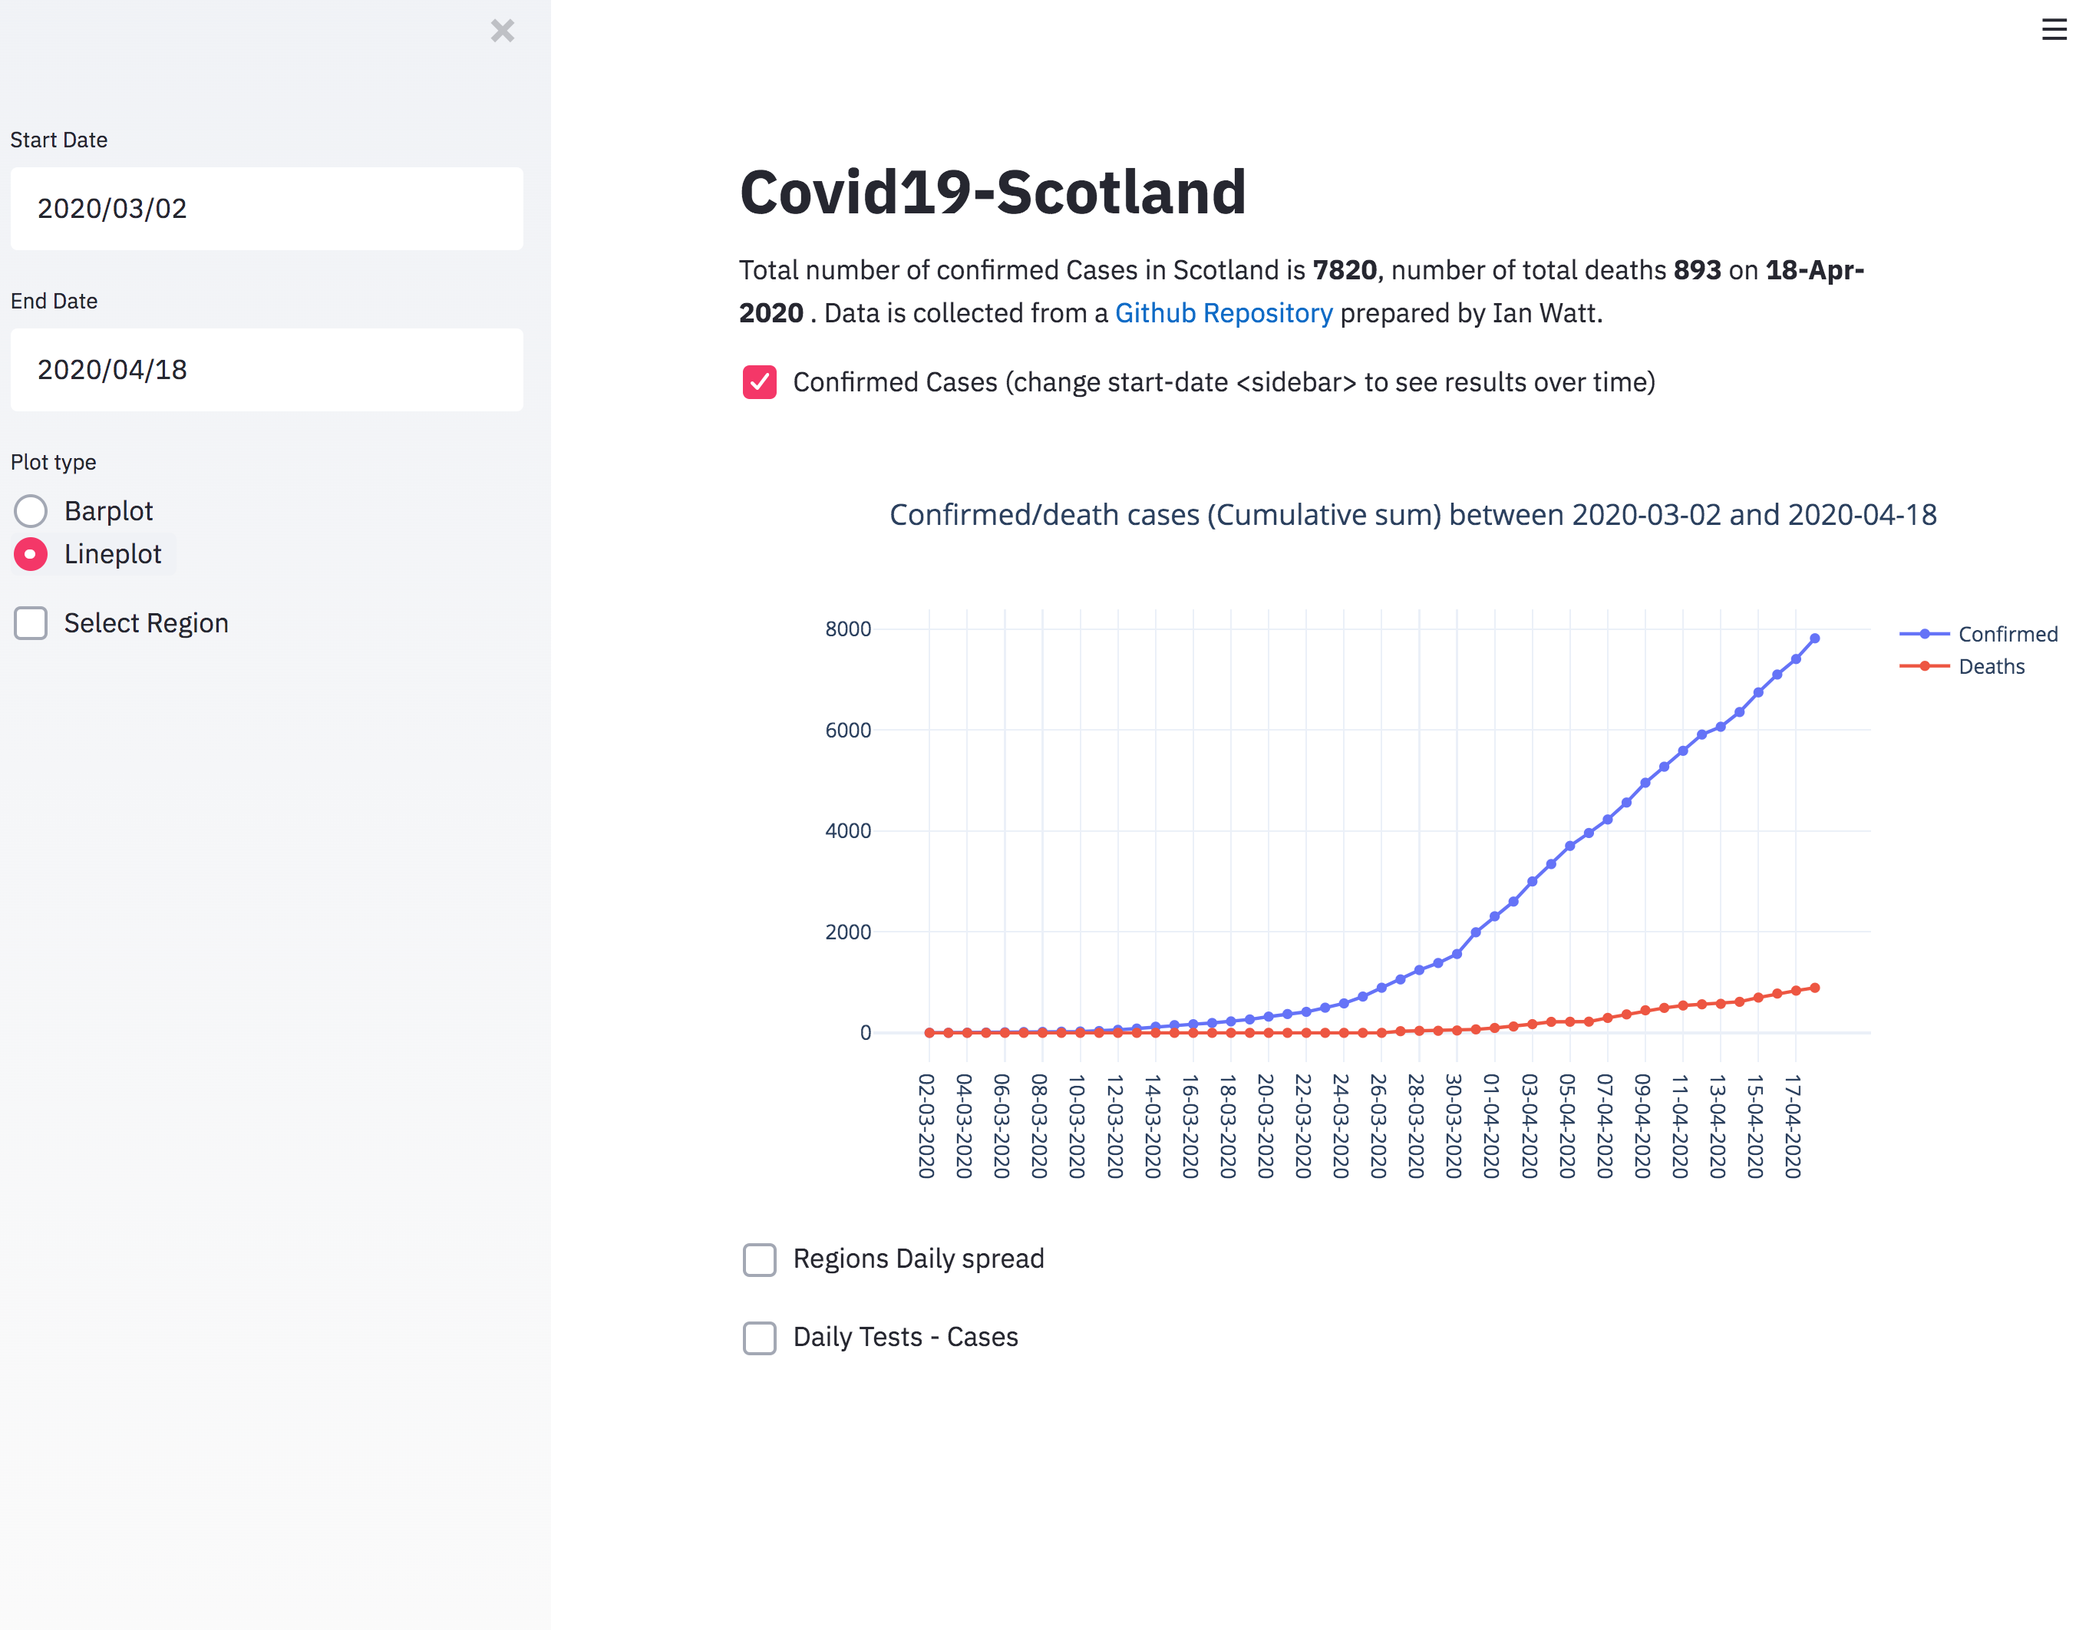
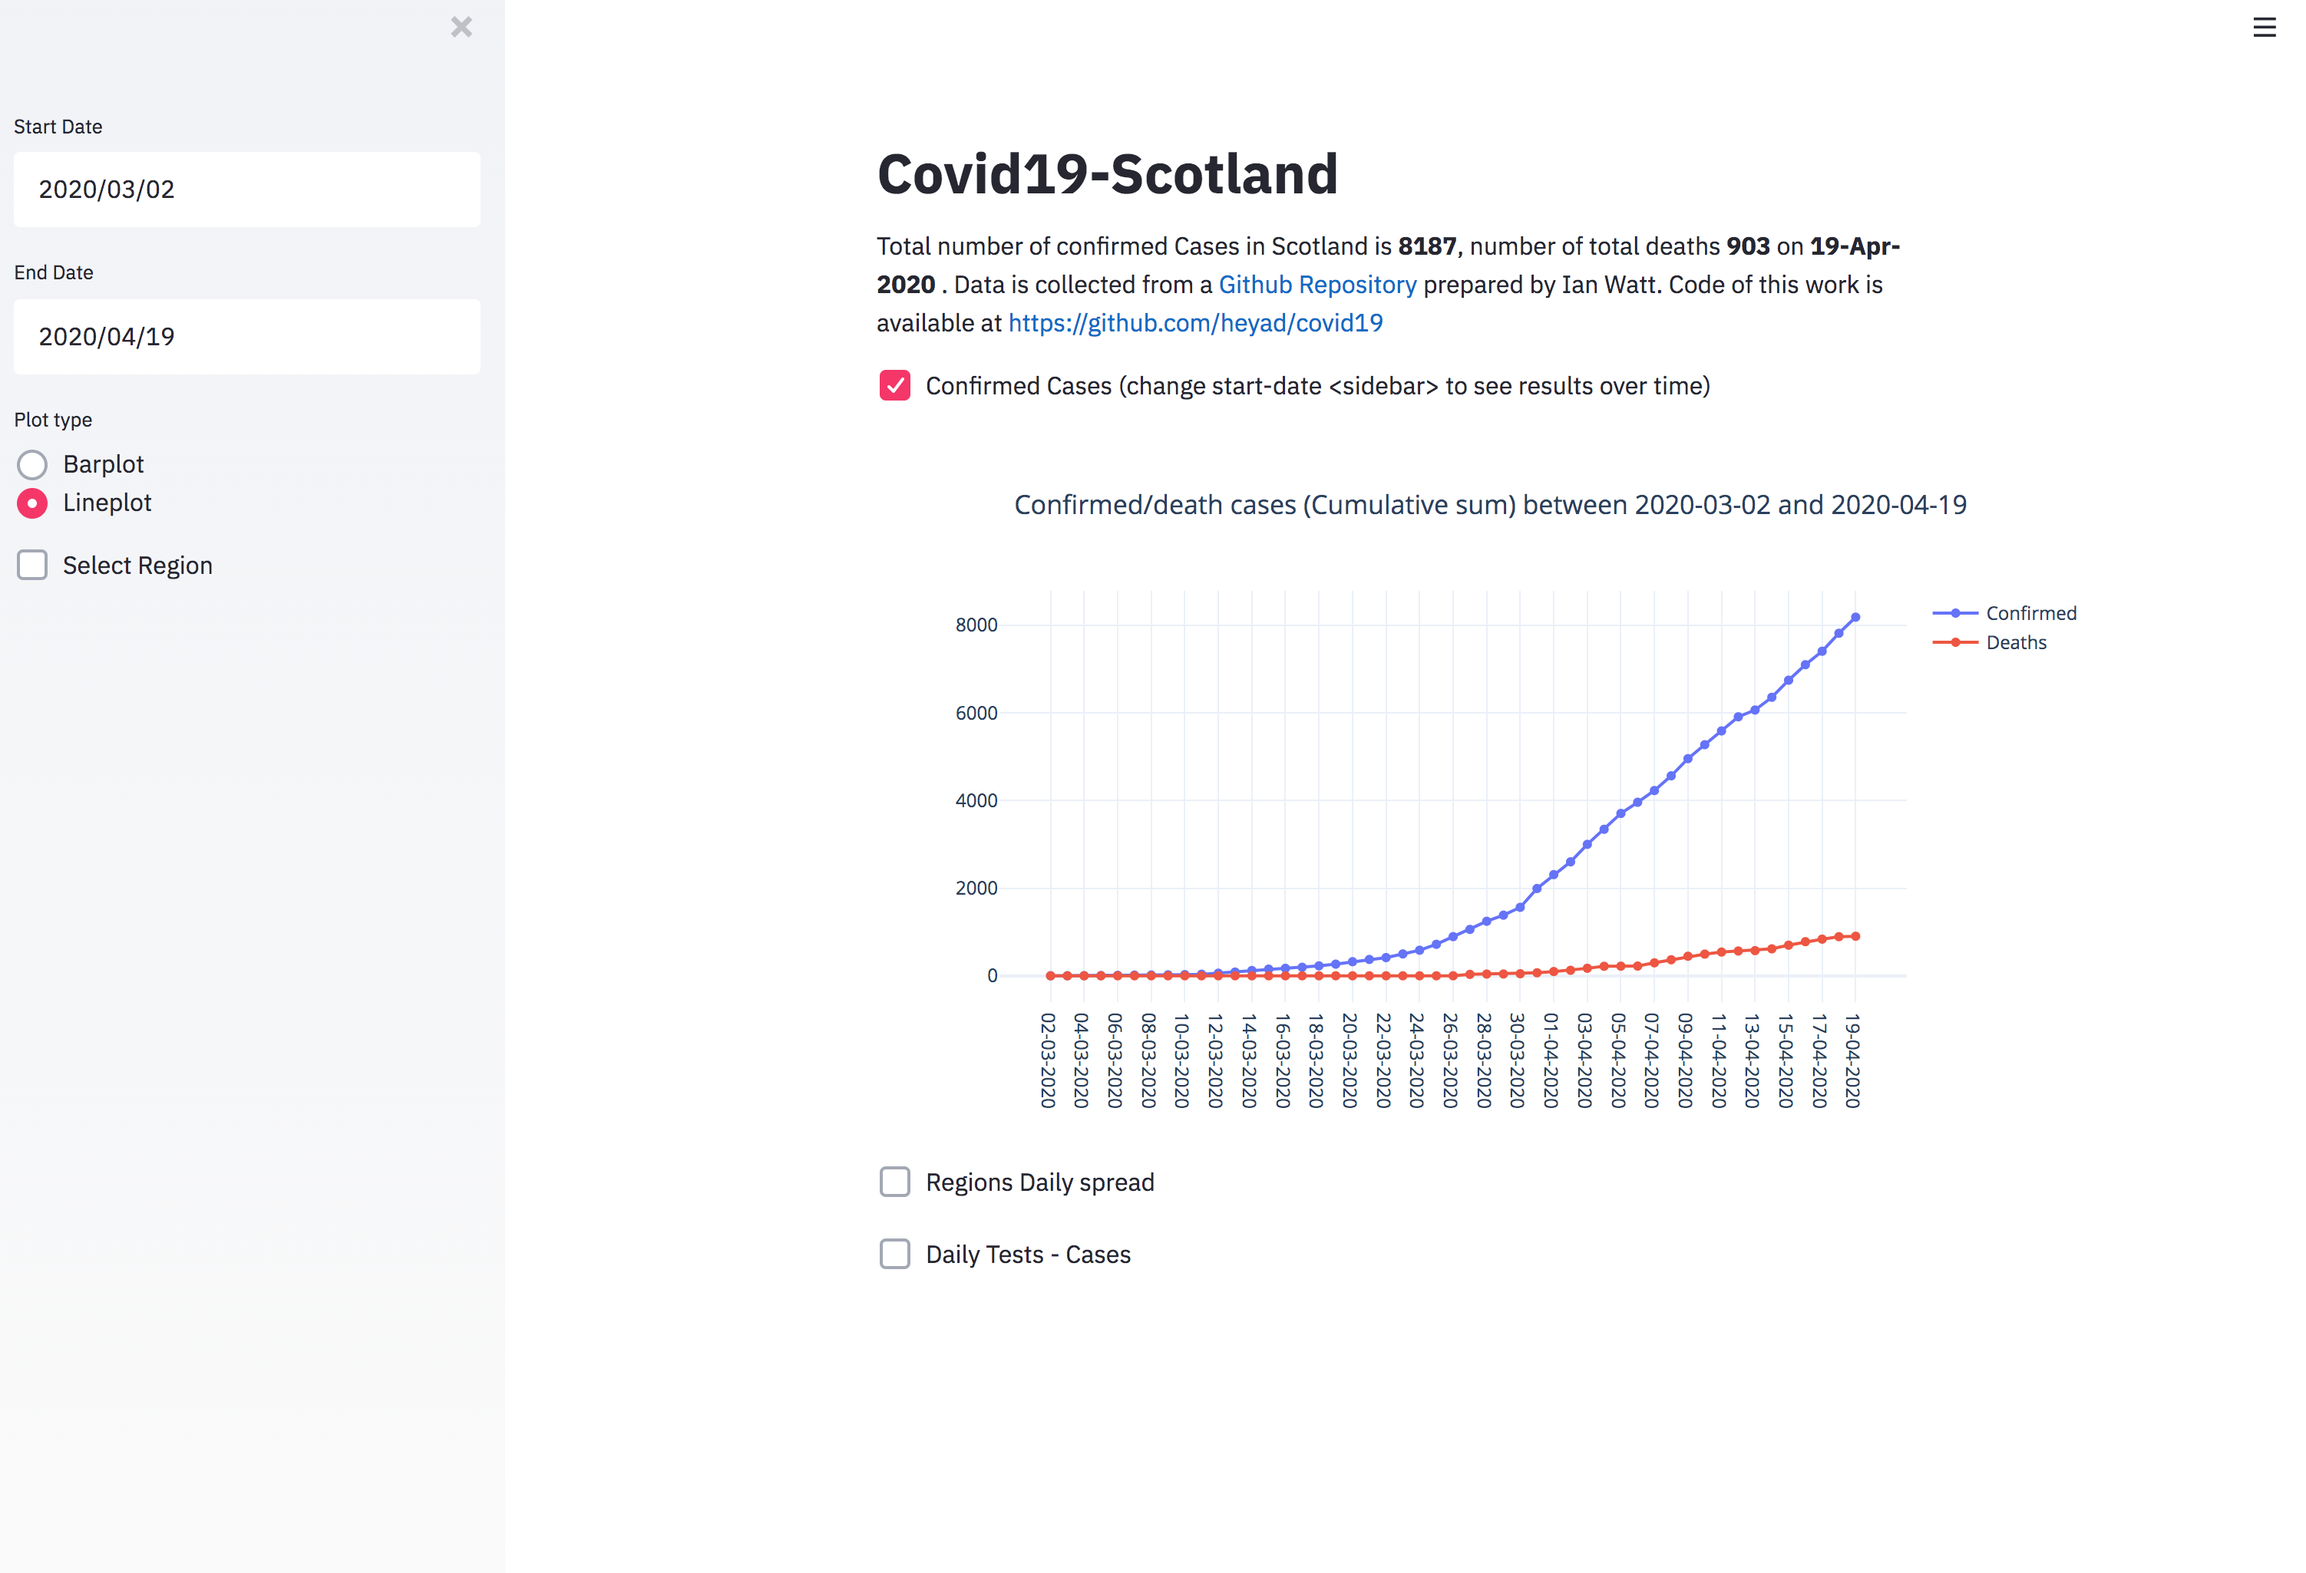
numbers updates

diff --git a/covid19_Scotland/Scotland_Covi19.py b/covid19_Scotland/Scotland_Covi19.py
@@ -301,7 +301,7 @@ def plot_confirmed_tests(date =date.today(), end_date=end_date_df,bar=True):
         ))
 
     #fig.update_layout(barmode='group')
-    fig.update_layout(template='plotly_white',width=800,height=450)
+    fig.update_layout(template='plotly_white',width=900,height=500)
     fig.update_layout(title_text="Number of Tests VS Confirmed Cases between "+str(date)+
         ' and ' +str(end_date),
      title_x=0.5)
@@ -382,7 +382,8 @@ st.markdown('Total number of confirmed Cases in Scotland is<strong> ' +
     str(np.sum(cases_grouped['Confirmed'])) +'</strong>, number of total deaths <b>'+str(int(n_deaths))
     +'</b> on <strong>' + str(byDate)+
     '</strong> '+
-    '. Data is collected from a [Github Repository](https://github.com/watty62/Scot_covid19]) prepared by Ian Watt.',True)
+    '. Data is collected from a [Github Repository](https://github.com/watty62/Scot_covid19]) prepared by Ian Watt.' + 
+    ' Code of this work is available at [https://github.com/heyad/covid19](https://github.com/heyad/covid19)',True)
 
 
 # sidebar input to control number of regions in the table
